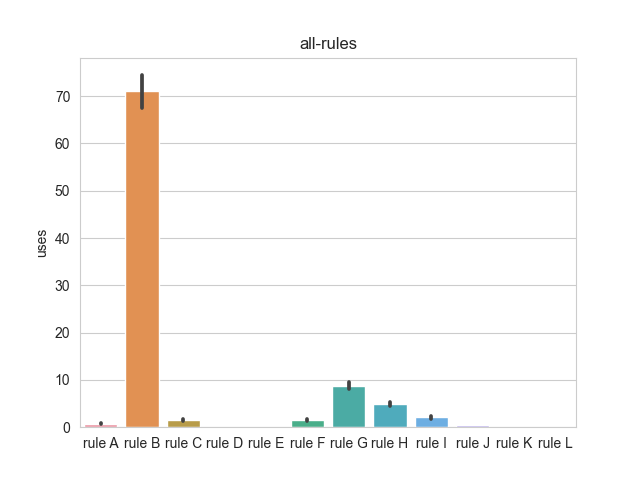
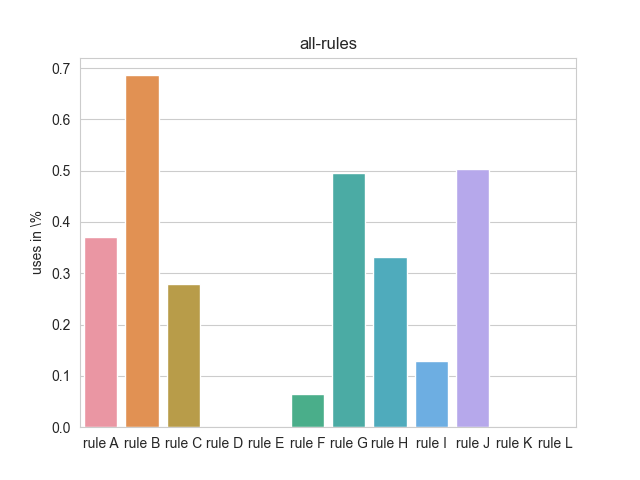
fixes rule usage plot

diff --git a/graph_utility/rule_usage_barplot.py b/graph_utility/rule_usage_barplot.py
@@ -1,4 +1,6 @@
 import matplotlib.pyplot as plt
+import numpy
+import numpy as np
 import pandas as pd
 import seaborn as sns
 import sys
@@ -14,6 +16,16 @@ rules = [column for column in (pd.read_csv(paths[0], index_col=0, nrows=0).colum
 
 for index, data in enumerate(data_list):
     data = data.drop(data[(data['solved by query simplification']) | (data.answer == 'NONE')].index)
-    sns.barplot(data=data[rules]).set(title=f'{test_names[index]}', ylabel='uses')
+    grouped_data = data.groupby(['model name'])[rules].agg('sum')
+    num_models = len(grouped_data)
+
+    #percentages = [(len(grouped_data[grouped_data[rule] > 0])) / num_models
+    #               for rule in rules]
+
+    percentages = ((grouped_data > 0)*1).mean()
+    percentages = (percentages.to_frame()).transpose()
+    print(percentages)
+
+    sns.barplot(data=percentages).set(title=f'{test_names[index]}', ylabel='uses in \%')
     plt.savefig(f'graphs/rule_usage_barplot_{test_names[index]}.png')
     plt.clf()
